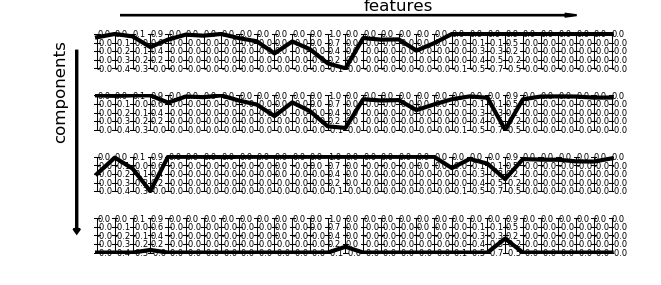
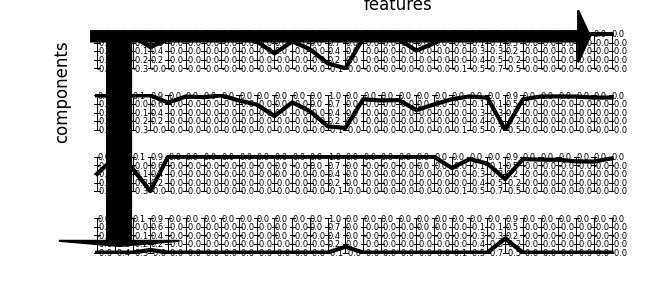
remove set smart bound

Changed region(s): [[0.0605, 0.0, 0.9077, 0.8702]]

diff --git a/datavyz/adjust_plots.py b/datavyz/adjust_plots.py
@@ -161,7 +161,7 @@ def adjust_spines(graph, ax, spines, tck_outward=3, tck_length=4.,
     for loc, spine in ax.spines.items():
         if loc in spines:
             spine.set_position(('outward', tck_outward)) # outward by 10 points by default
-            spine.set_smart_bounds(True)
+            # spine.set_smart_bounds(True)
             ax.xaxis.set_tick_params(length=tck_length)
             ax.yaxis.set_tick_params(length=tck_length)
         else:
